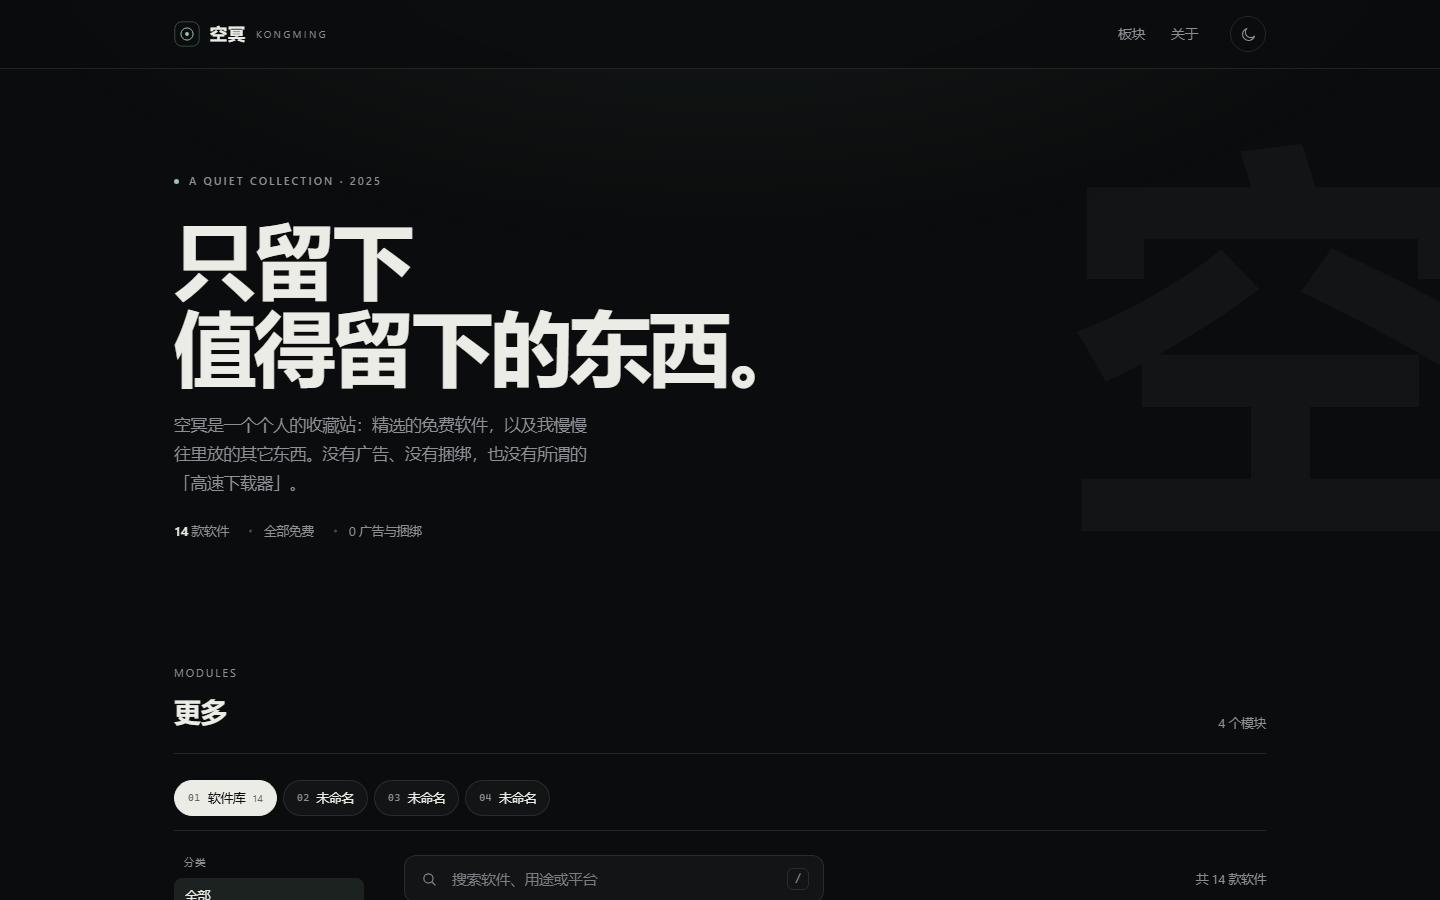
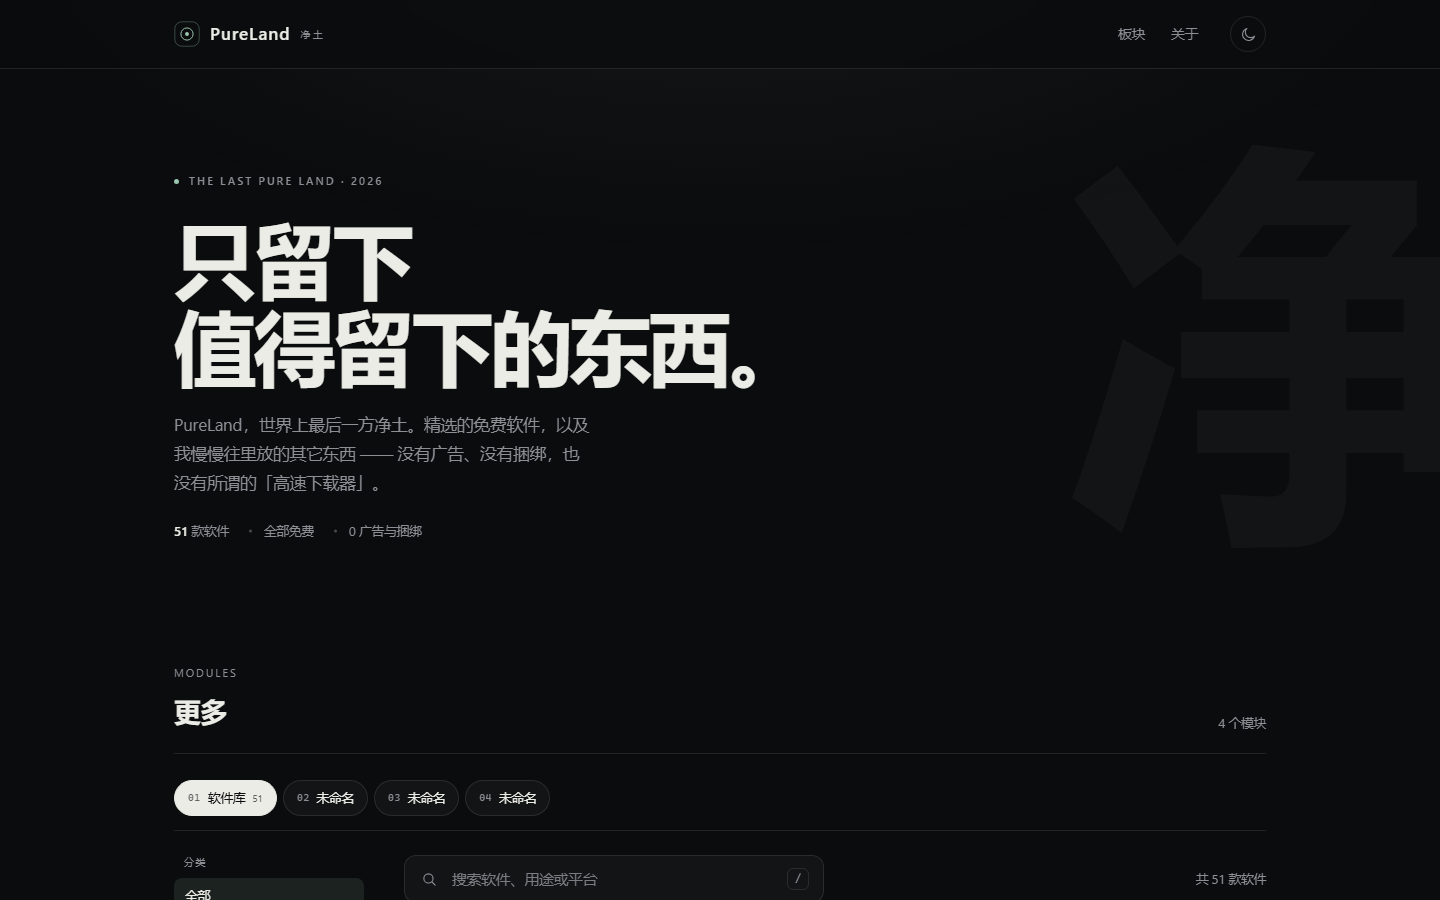
Add files via upload

Changed region(s): [[0.125, 0.4667, 0.4062, 0.56], [0.125, 0.1867, 0.25, 0.2178], [0.125, 0.0311, 0.2188, 0.0622]]

diff --git a/README.md b/README.md
@@ -1,6 +1,6 @@
-# 空冥 · KONGMING
+# PureLand · 净土
 
-一个极简风格的个人收藏站模板：纸感底色、发丝分隔线、留白与一个克制的墨绿重音。
+「世界上最后一方净土」—— 一个极简风格的个人收藏站模板：纸感底色、发丝分隔线、留白与一个克制的墨绿重音。
 上半部分是软件下载库，下面留了三个「空位」，想放什么就放什么。
 纯静态，无框架、无构建步骤、无外部依赖，改两个文件就能变成你自己的站。
 
@@ -34,7 +34,7 @@ kongming/
 
 ### 1. 站点名与文案
 
-在 `index.html` 里搜索「空冥」替换成你的名字；首屏大标题、副标题、三条规矩、页脚免责声明都是普通文字，直接改。
+在 `index.html` 里搜索「PureLand」替换成你的名字；首屏大标题、副标题、三条规矩、页脚免责声明都是普通文字，直接改。
 
 ### 2. 添加 / 删除软件
 
@@ -56,11 +56,15 @@ kongming/
 }
 ```
 
-新增分类时，在 `index.html` 的 `.filters` 里加一个按钮：
+新增分类时，在 `index.html` 的 `.rail-filter-list` 里加一个按钮：
 
 ```html
 <button class="chip" type="button" data-cat="audio" aria-pressed="false">音频工具</button>
 ```
+
+现有分类：`system` 系统 / `dev` 开发 / `design` 设计 / `office` 办公 / `security` 安全 / `media` 影音 / `game` 游戏加速。
+
+版本号写数字会自动加 `v`（`24.09` → `v24.09`）；写「最新」「在线」则原样显示。体积不确定就写 `—`，卡片会自动省略这一项。
 
 ### 3. 模块与分类
 
